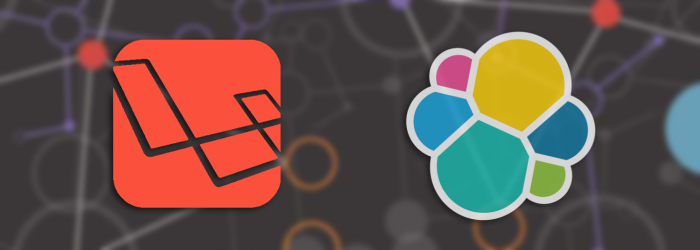
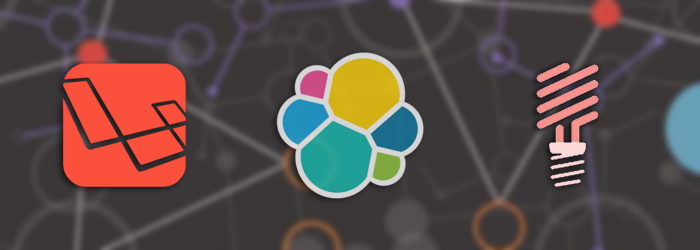
update

diff --git a/_posts/2016-01-07-laravel-elasticseach-query-builder.md b/_posts/2016-01-07-laravel-elasticseach-query-builder.md
@@ -21,42 +21,68 @@ disqus: enabled
 <p align="center"><img src="http://basemkhirat.com/images/basemkhirat-elasticsearch.png"></p>
 
 
-## Laravel elasticseach query builder to build complex queries using an elegant syntax
+## Laravel and Lumen elasticseach query builder to build complex queries using an elegant syntax
 
-- Keep away from wasting your time by replacing array queries with a simple and elegant syntax you will love.
+- Keeps you away from wasting your time by replacing array queries with a simple and elegant syntax you will love.
+- Lumen framework support.
 - Supports [laravel 5.4](https://laravel.com/docs/5.4) and can be used as a  [laravel scout](https://laravel.com/docs/5.4/scout) driver.
 - Dealing with multiple elasticsearch connections at the same time.
-- Support scan and scroll queries for dealing big data.
+- Supports scan and scroll queries for dealing big data.
 - Awesome pagination based on [LengthAwarePagination](https://github.com/illuminate/pagination).
 - Feeling free to create, drop and mapping index fields.
 - Caching queries using a caching layer over query builder built on [laravel cache](https://laravel.com/docs/5.4/cache).
 
 ## Requirements
 
-- php >= 5.6.6 
+- `php` >= 5.6.6 
   
   See [Travis CI Builds](https://travis-ci.org/basemkhirat/elasticsearch).
 
-- laravel/laravel >= 5.3
+- `laravel/laravel` >= 5.3 or `laravel/lumen` >= 5.3
 
 ## Installation
 
-##### 1) Install package using composer:
+### <u>Laravel Installation</u>
+
+
+##### 1) Install package using composer.
 
 	composer require basemkhirat/elasticsearch
 
-##### 2) Add package service provider:
+##### 2) Add package service provider.
 
 	Basemkhirat\Elasticsearch\ElasticsearchServiceProvider::class
 	
-##### 3) Add package alias:
+##### 3) Add package alias.
 
 	'ES' => Basemkhirat\Elasticsearch\Facades\ES::class
 	
-##### 4) Publishing:
+##### 4) Publishing.
     
-    php artisan vendor:publish
+    php artisan vendor:publish --provider="Basemkhirat\Elasticsearch\ElasticsearchServiceProvider"
 
+
+### <u>Lumen Installation</u>
+
+##### 1) Install package using composer.
+
+	composer require basemkhirat/elasticsearch
+
+##### 2) Add package service provider in `bootstrap/app.php`.
+
+	$app->register(Basemkhirat\Elasticsearch\ElasticsearchServiceProvider::class);
+	
+##### 3) Copy package config directory `vendor/basemkhirat/elasticsearch/src/config` to root folder alongside with `app` directory.
+	
+##### 4) Making Lumen read our configuration files by adding these lines in `bootstrap/app.php` before returning Lumen `$app` instance.
+
+	$app->configure("es");
+	$app->configure("scout");
+	
+##### 5) Making Lumen work with facades by uncommenting this line in `bootstrap/app.php`.
+
+	$app->withFacades();
+   
 	
 ## Configuration
 
@@ -473,10 +499,10 @@ Package comes with a built-in caching layer based on laravel cache.
 ##### Update using script
        
 
-    # icrement field by script
+    # increment field by script
     
     ES::id(3)->script(
-        "ctx._source.$field -= params.count",
+        "ctx._source.$field += params.count",
         ["count" => 1]
     );
     
@@ -490,7 +516,7 @@ Package comes with a built-in caching layer based on laravel cache.
     # delete the doc if the tags field contain mongodb, otherwise it does nothing (noop)
     
     ES::id(3)->script(
-        "if (ctx._source.tags.contains(params.tag)) { ctx.op = "delete" } else { ctx.op = "none" }",
+        "if (ctx._source.tags.contains(params.tag)) { ctx.op = 'delete' } else { ctx.op = 'none' }",
         ["tag" => "mongodb"]
     );
     
@@ -504,11 +530,16 @@ Package comes with a built-in caching layer based on laravel cache.
     
     [id is required]
     
-### Author
+
+## Releases
+
+  See [Change Log](https://github.com/basemkhirat/elasticsearch/blob/master/CHANGELOG.md).
+
+## Author
 [Basem Khirat](http://basemkhirat.com) - [basemkhirat@gmail.com](mailto:basemkhirat@gmail.com) - [@basemkhirat](https://twitter.com/basemkhirat)  
 
 
-### Bugs, Suggestions and Contributions
+## Bugs, Suggestions and Contributions
 
 Thanks to [everyone](https://github.com/basemkhirat/elasticsearch/graphs/contributors)
 who has contributed to this project!
@@ -516,7 +547,7 @@ who has contributed to this project!
 Please use [Github](https://github.com/basemkhirat/elasticsearch) for reporting bugs, 
 and making comments or suggestions.
 
-### License
+## License
 
 MIT
 
